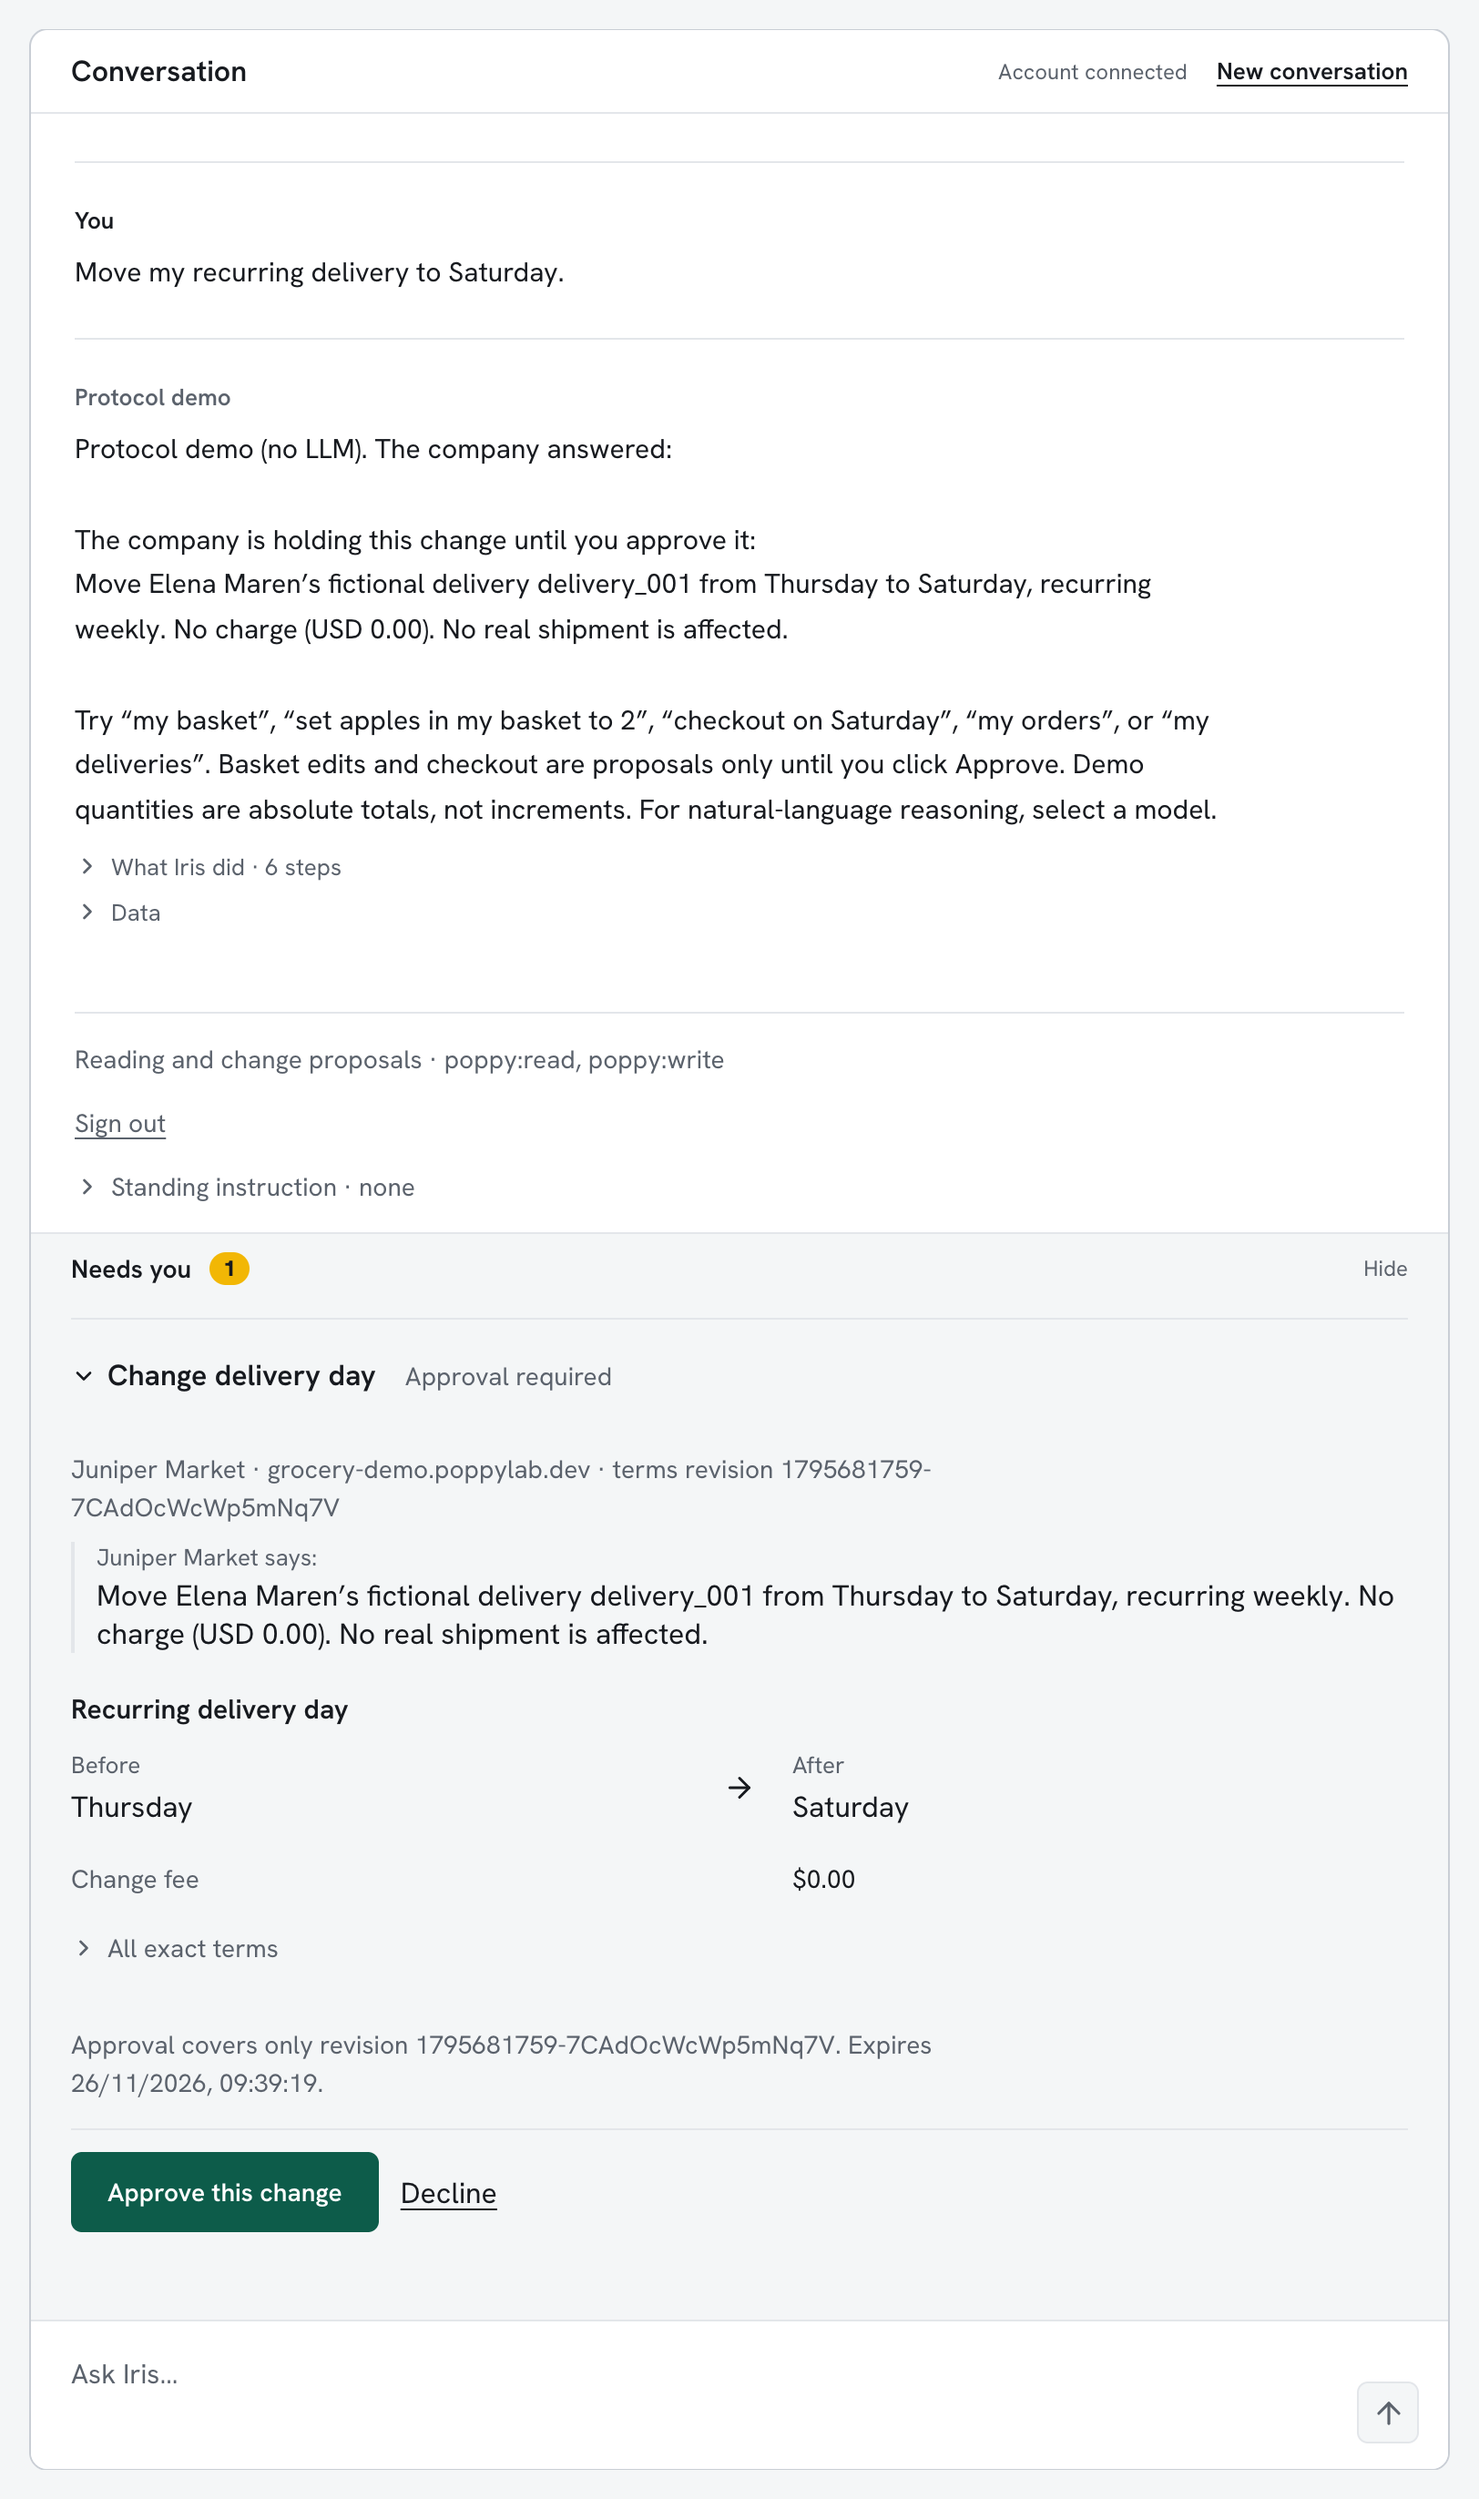
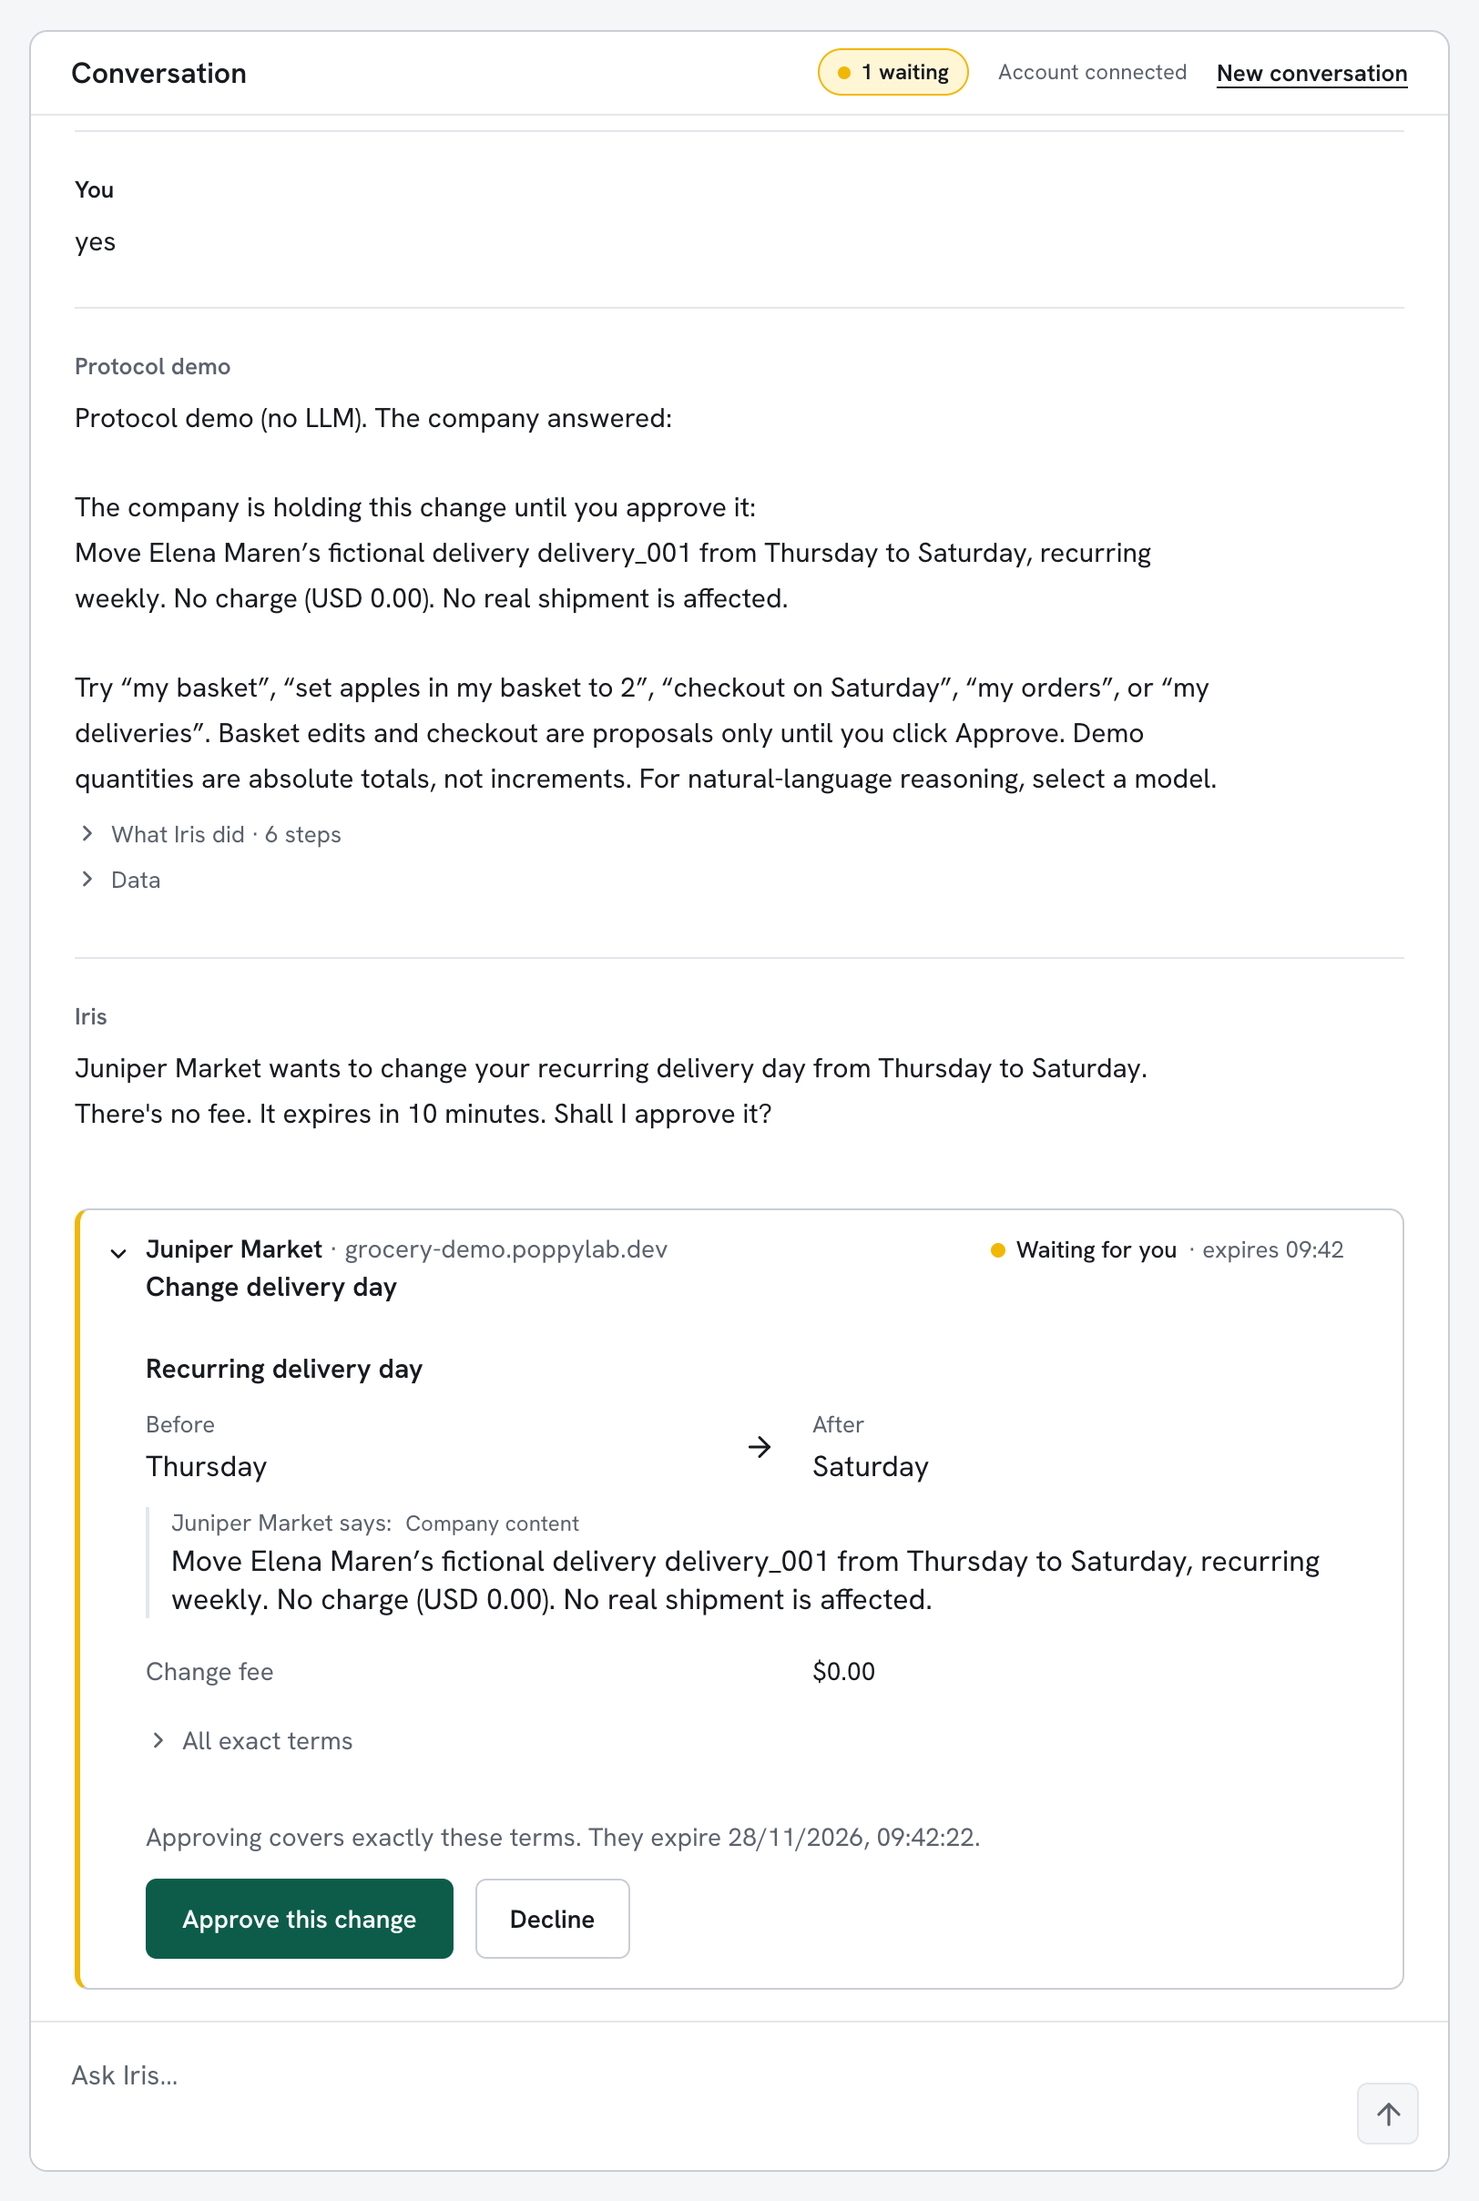
Retake Signing in and Changing an order after the fixes of 28 November
With the count of what waits, the leftovers after sign-out and Iris's own lines fixed live, Signing in 05, 07, 08, 09, 12 and Changing an order 02, 04, 07, 08, 09 are retaken. What was said before a change permission now stays, marked From your earlier sign-in. Iris's question names the added matcha ice cream, the terms carry from_items and to_items, and Iris's confirmation ends: and it has been carried out.

diff --git a/docs/learn/how-it-works/changing-an-order.md b/docs/learn/how-it-works/changing-an-order.md
@@ -163,9 +163,9 @@ Lantern does not make it. It answers that the change needs the customer's
 approval and sends back the terms it would apply. Iris shows them as a card
 in the conversation, where the proposal arrived, and the heading counts it as
 waiting. Iris asks in its own words, from the terms: "Lantern Noodle Bar wants
-to change your order: the delivery slot from Friday at 18:30 to Sunday at
-13:00. The new total is $43.00, $6.00 more than before. It expires in 10
-minutes. Shall I approve it?"
+to change your order: add 1 × Matcha ice cream, and the delivery slot from
+Friday at 18:30 to Sunday at 13:00. The new total is $43.00, $6.00 more than
+before. It expires in 10 minutes. Shall I approve it?"
 
 <details>
 <summary>What travelled</summary>
@@ -195,6 +195,15 @@ Lantern's answer to the request, as Iris received it:
     "from_slot": "fri-1830",
     "to_slot": "sun-1300",
     "lines": { "shoyu-ramen": 2, "edamame": 1, "matcha-ice": 1 },
+    "from_items": [
+      { "name": "Shoyu ramen", "quantity": 2 },
+      { "name": "Salted edamame", "quantity": 1 }
+    ],
+    "to_items": [
+      { "name": "Shoyu ramen", "quantity": 2 },
+      { "name": "Salted edamame", "quantity": 1 },
+      { "name": "Matcha ice cream", "quantity": 1 }
+    ],
     "before_total_cents": 3700,
     "new_total_cents": 4300,
     "price_difference_cents": 600,
@@ -209,7 +218,7 @@ Lantern's answer to the request, as Iris received it:
 
 ### 8. Read what you are approving
 
-![The proposal card: total 43 dollars, the delivery slot before and after, Lantern's description of the change, the previous total, the difference and the new total, and the buttons Approve 43 dollars and Decline](../../../apps/playground/public/learn-media/how-it-works/changing-an-order/08-exact-terms.webp "The terms come from Lantern. Iris shows them and adds nothing of its own.")
+![The proposal card: total 43 dollars, a row for the matcha ice cream, not in the order before and 1 after, the delivery slot before and after, Lantern's description of the change, the previous total, the difference and the new total, and the buttons Approve 43 dollars and Decline](../../../apps/playground/public/learn-media/how-it-works/changing-an-order/08-exact-terms.webp "The terms come from Lantern. Iris shows them and adds nothing of its own.")
 
 The card shows what Lantern will do if Elena approves: the new delivery
 slot, the dishes, the new total and the difference from the old one. The
@@ -230,15 +239,14 @@ in step 7, and they stay on Elena's screen until she decides.
 
 ### 9. Approve
 
-![The card now reads Approved by you, with Lantern's confirmation that the order was changed. Below it Elena's answer yes, and Iris: Done. You approved the 43 dollar change at Lantern Noodle Bar, and Lantern Noodle Bar has carried it out](../../../apps/playground/public/learn-media/how-it-works/changing-an-order/09-approved.webp "Lantern made the change when the approval arrived, and said so.")
+![The card now reads Approved by you, with Lantern's confirmation that the order was changed. Below it Elena's answer yes, and Iris: Done. You approved the 43 dollar change at Lantern Noodle Bar, and it has been carried out](../../../apps/playground/public/learn-media/how-it-works/changing-an-order/09-approved.webp "Lantern made the change when the approval arrived, and said so.")
 
 Elena presses Approve, or answers "yes" to Iris's question. Iris sends
 Lantern the same request again, this time with her approval attached. Lantern checks that the approval matches the
 terms it offered, makes the change and confirms it: the order is now for
 Sunday and costs 43 dollars. The card stays where the proposal arrived,
 with Lantern's confirmation and the line "Approved by you", and Iris says:
-"Done. You approved the $43.00 change at Lantern Noodle Bar, and Lantern
-Noodle Bar has carried it out."
+"Done. You approved the $43.00 change at Lantern Noodle Bar, and it has been carried out."
 
 The approval is something only Elena gives: the button, or her own answer
 to the question Iris asked about these terms. Iris reads that answer by fixed

diff --git a/docs/learn/how-it-works/signing-in-and-giving-permission.md b/docs/learn/how-it-works/signing-in-and-giving-permission.md
@@ -215,16 +215,16 @@ entry Juniper lists for Iris afterwards, with both permissions.
 
 ### 7. Iris asks to go on
 
-![Iris says: Juniper Market's own page is open in a new tab for the change permission. Sign in there; I never see your password. Then: You're signed in at Juniper Market. Shall I go on with Move my recurring delivery to Saturday? A button reads Yes, go on, and a block below reads Change permission given at Juniper Market](../../../apps/playground/public/learn-media/how-it-works/signing-in-and-giving-permission/07-iris-asks-to-go-on.webp "Iris waits for Elena's word before it sends the request it held back.")
+![Elena's line Request change permission at Juniper Market, then a block: Change permission given at Juniper Market. Iris says: Juniper Market's own page is open in a new tab for the change permission. Sign in there; I never see your password. Then: You're signed in at Juniper Market. Shall I go on with Move my recurring delivery to Saturday? A button reads Yes, go on](../../../apps/playground/public/learn-media/how-it-works/signing-in-and-giving-permission/07-iris-asks-to-go-on.webp "Iris waits for Elena's word before it sends the request it held back.")
 
 Back in the conversation, a block reads "Change permission given at Juniper
 Market", and Iris says: "You're signed in at Juniper Market. Shall I go on
 with 'Move my recurring delivery to Saturday'?" It does not send the request
 by itself.
 
-When the access changed, what had been said since the first sign-in left the
-conversation: her deliveries, her orders and the request Iris had not sent.
-Her question from before that sign-in stayed, with its answer.
+What was said before the change permission stays in the conversation: her
+deliveries, her orders and the request Iris had not sent each carry the label
+"From your earlier sign-in at Juniper Market".
 
 ### 8. Go on with the request
 
@@ -276,13 +276,12 @@ Juniper's answer to the request, as Iris received it:
 
 ### 9. Approve
 
-![The card Change delivery day now reads Approved by you, with Juniper's confirmation that the delivery repeats weekly on Saturday. Below it Elena's answer approve, and Iris: Done. You approved the change at Juniper Market, and Juniper Market has carried it out](../../../apps/playground/public/learn-media/how-it-works/signing-in-and-giving-permission/09-approved.webp "Juniper made the change when the approval arrived, and said so.")
+![The card Change delivery day now reads Approved by you, with Juniper's confirmation that the delivery repeats weekly on Saturday. Below it Elena's answer approve, and Iris: Done. You approved the change at Juniper Market, and it has been carried out](../../../apps/playground/public/learn-media/how-it-works/signing-in-and-giving-permission/09-approved.webp "Juniper made the change when the approval arrived, and said so.")
 
 Elena answers "approve". Pressing Approve this change on the card does the
 same. Iris sends Juniper the same request again, this time with her approval
 attached, and Juniper confirms: the delivery now repeats weekly on Saturday.
-Iris says: "Done. You approved the change at Juniper Market, and Juniper
-Market has carried it out." The card stays where it arrived and reads
+Iris says: "Done. You approved the change at Juniper Market, and it has been carried out." The card stays where it arrived and reads
 Approved by you.
 
 The permission from step 6 allowed Iris to ask for the change. Elena's

diff --git a/docs/learn/how-it-works/getting-help-from-the-company.md b/docs/learn/how-it-works/getting-help-from-the-company.md
@@ -194,8 +194,8 @@ haven't allowed this agent to propose changes to your orders." The event that
 comes with it names the two permissions the request needs. Elena has given the
 first, and the block higher in the conversation that offers change permission
 is where she would give the second. Elena decides not to
-give it for the moment. If she gives it later, the answers Iris got since she
-signed in leave the conversation, as in
+give it for the moment. If she gives it later, the answers Iris got before
+stay in the conversation, marked as from her earlier sign-in, as in
 [Signing in and giving permission](signing-in-and-giving-permission.md).
 
 <details>
